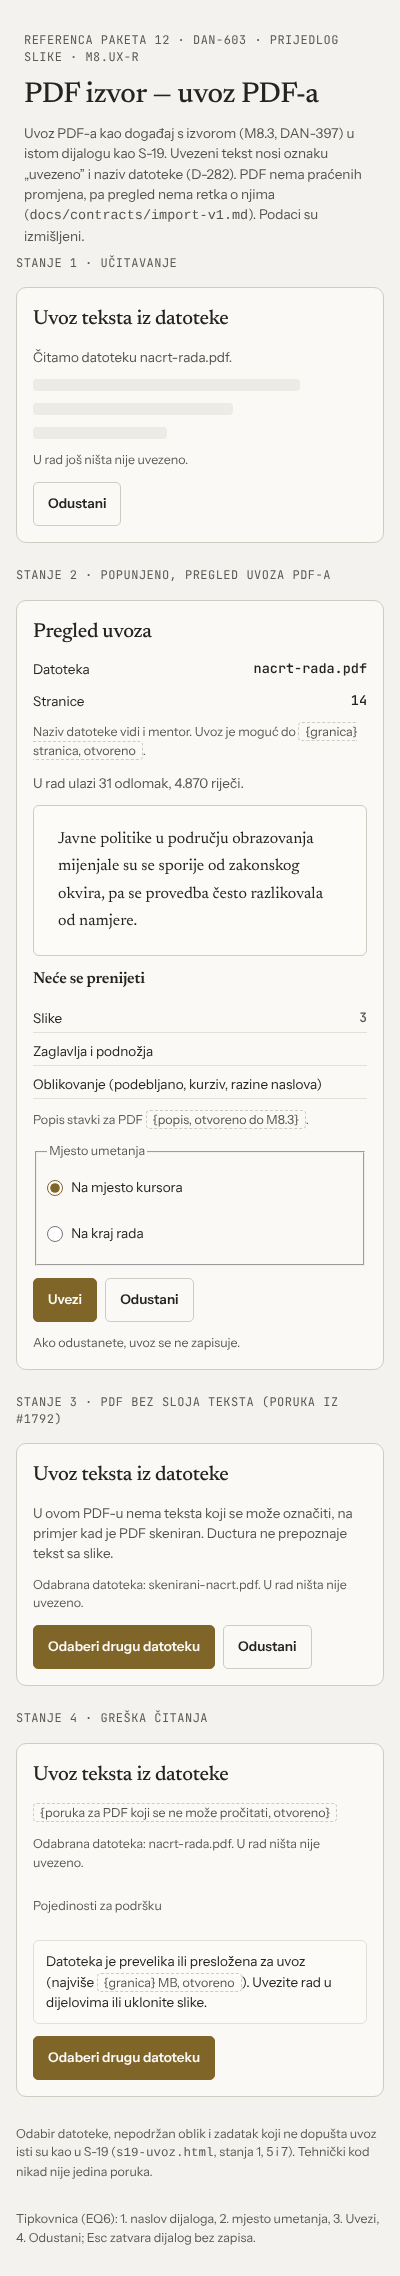
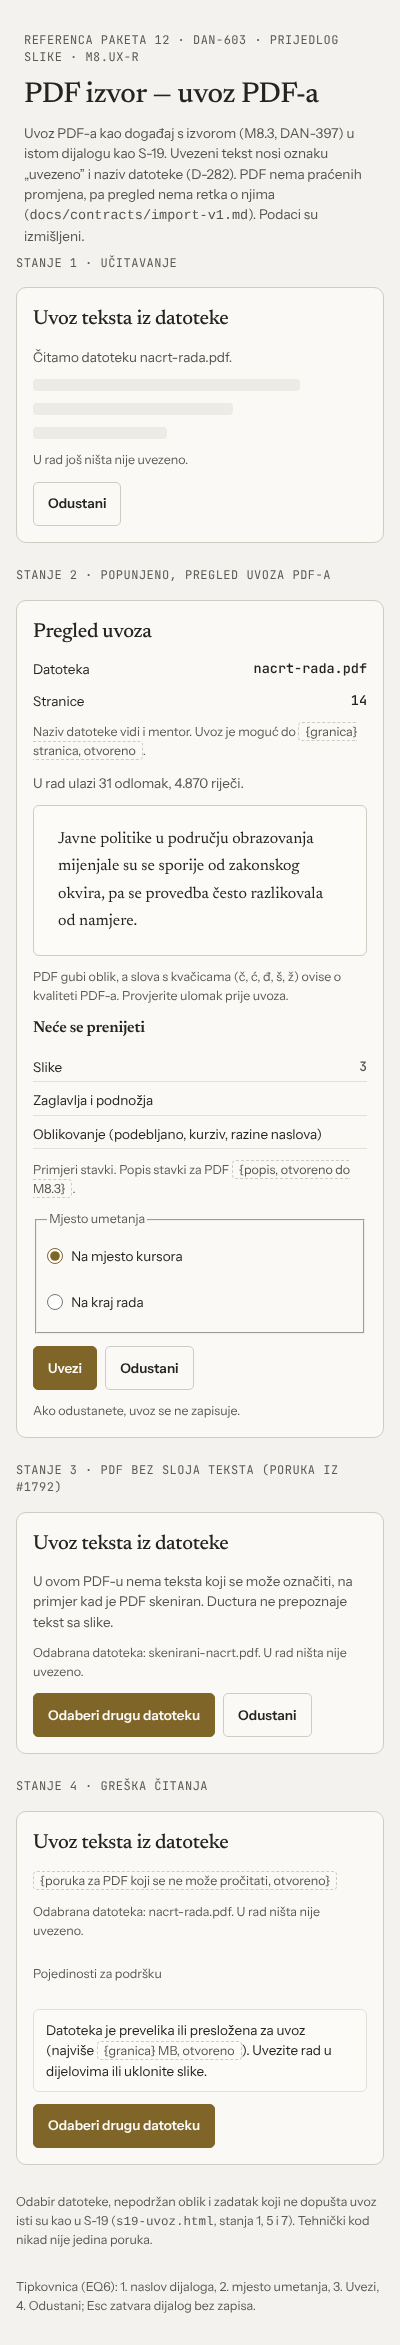
docs: limit S-19 formats to contract and add PDF diacritics note (DAN-603)
Supported import formats follow the closed fileFormat set (docx, pdf) of
evidence-segment v4. The PDF preview states that PDF loses formatting and
that diacritics depend on PDF quality (PRODUCT section 10). The "will not
transfer" items are marked as examples from the reader spike, and the
README points to import-v1 sections 3 and 4.

Claude-Session: https://claude.ai/code/session_01N1HowWxAFqsWkbdTma1fj1

Changed region(s): [[0.03, 0.1872, 0.93, 0.967], [0.06, 0.0, 0.9, 0.156], [0.66, 0.9359, 0.93, 0.967]]

diff --git a/docs/design/ductura/m8-reference/s19-uvoz.html b/docs/design/ductura/m8-reference/s19-uvoz.html
@@ -20,7 +20,7 @@
       <h2 id="t1">Uvoz teksta iz datoteke</h2>
       <p class="note">Uvezeni tekst u radu ima oznaku „uvezeno”. Zapisuju se naziv, vrsta i veličina datoteke te vrijeme uvoza na minutu. Mentor vidi iste podatke kao Vi.</p>
       <p class="note">Uvezeni tekst ostaje zabilježen kao uvoz i ako ga kasnije obrišete ili promijenite.</p>
-      <p class="meta">Podržani oblici: .docx, .pdf, .txt.</p>
+      <p class="meta">Podržani oblici: .docx, .pdf.</p>
       <div class="acts"><button class="btn" type="button">Odaberi datoteku</button><button class="btn secondary" type="button">Odustani</button></div>
     </div>
   </section>
@@ -64,6 +64,7 @@
         <li><span>Zaglavlja i podnožja</span><span></span></li>
         <li><span>Oblikovanje (podebljano, kurziv, razine naslova)</span><span></span></li>
       </ul>
+      <p class="meta">Primjeri stavki; stvarni popis daje čitanje datoteke.</p>
       <p class="note">Datoteka sadrži praćene promjene: 12 umetanja i 7 brisanja. Uvozi se tekst s prihvaćenim promjenama.</p>
       <p class="meta">Zapisuje se samo vrsta i broj tih promjena. Imena, datumi i obrisani tekst se ne zapisuju. Mentor vidi isti podatak kao Vi.</p>
       <div class="acts"><button class="btn" type="button">Uvezi</button><button class="btn secondary" type="button">Odustani</button></div>
@@ -74,7 +75,7 @@
     <div class="ref-tag">Stanje 5 · nepodržan format</div>
     <div class="dialog" role="dialog" aria-labelledby="t5">
       <h2 id="t5">Uvoz teksta iz datoteke</h2>
-      <p class="note" role="alert">Ovaj oblik datoteke nije podržan. Podržani su: .docx, .pdf, .txt.</p>
+      <p class="note" role="alert">Ovaj oblik datoteke nije podržan. Podržani su: .docx, .pdf.</p>
       <p class="meta">Odabrana datoteka: biljeske.pages</p>
       <div class="acts"><button class="btn" type="button">Odaberi drugu datoteku</button><button class="btn secondary" type="button">Odustani</button></div>
     </div>

diff --git a/docs/design/ductura/m8-reference/s19-pdf-izvor.html b/docs/design/ductura/m8-reference/s19-pdf-izvor.html
@@ -34,13 +34,14 @@
       <p class="meta">Naziv datoteke vidi i mentor. Uvoz je moguć do <span class="open-mark">{granica} stranica, otvoreno</span>.</p>
       <p class="note">U rad ulazi 31 odlomak, 4.870 riječi.</p>
       <div class="sheet"><p>Javne politike u području obrazovanja mijenjale su se sporije od zakonskog okvira, pa se provedba često razlikovala od namjere.</p></div>
+      <p class="meta">PDF gubi oblik, a slova s kvačicama (č, ć, đ, š, ž) ovise o kvaliteti PDF-a. Provjerite ulomak prije uvoza.</p>
       <h3 class="title">Neće se prenijeti</h3>
       <ul class="lost">
         <li><span>Slike</span><span>3</span></li>
         <li><span>Zaglavlja i podnožja</span><span></span></li>
         <li><span>Oblikovanje (podebljano, kurziv, razine naslova)</span><span></span></li>
       </ul>
-      <p class="meta">Popis stavki za PDF <span class="open-mark">{popis, otvoreno do M8.3}</span>.</p>
+      <p class="meta">Primjeri stavki. Popis stavki za PDF <span class="open-mark">{popis, otvoreno do M8.3}</span>.</p>
       <fieldset class="choice"><legend class="meta">Mjesto umetanja</legend>
         <label><input type="radio" name="p" checked>Na mjesto kursora</label>
         <label><input type="radio" name="p">Na kraj rada</label></fieldset>

diff --git a/docs/design/ductura/m8-reference/README.md b/docs/design/ductura/m8-reference/README.md
@@ -34,13 +34,15 @@ Izrađene su Playwrightovim Chromiumom: cijela stranica, DPR 1, nakon `document.
 
 - **Uvoz teksta (S-19).**
   - Uvoz je samo iz datoteke, a dijalog se obraća studentu s „Vi” i kaže da mentor vidi naziv datoteke (D-282). Uvodna rečenica dijaloga je iz #1794 i ponavlja `docs/PRODUCT.md`: zapisuju se naziv, vrsta i veličina datoteke te vrijeme uvoza na minutu.
-  - „Pregled uvoza” je obvezan korak prije nego što tekst uđe u rad. Popis „Neće se prenijeti” pojavljuje se samo za ono čega u datoteci ima.
+  - Podržani oblici su .docx i .pdf, zatvoren skup `fileFormat` iz `docs/contracts/evidence-segment-v4.md` (manifest uvoza). Drugi oblik traži izmjenu ugovora, pa ga slika ne nudi.
+  - „Pregled uvoza” je obvezan korak prije nego što tekst uđe u rad. Popis „Neće se prenijeti” pojavljuje se samo za ono čega u datoteci ima. Stavke u slici su primjer iz izlaza čitača u #1792, ne odluka o opsegu čitača (`docs/ARCHITECTURE.md` §5: struktura se čuva gdje je moguće); stvarni popis daje čitač M8.2 i M8.3.
   - Praćene promjene uvoze se kao prihvaćene. Student i mentor vide isti tekst: broj promjena po vrsti, bez imena, datuma i obrisanog teksta (D-281, D-198 t. 5).
   - Poruke greške su iz #1792. Tehnički kod je samo u „Pojedinosti za podršku” i nikad nije jedina poruka.
   - Uvezeni tekst ostaje zabilježen kao uvoz i ako ga student kasnije obriše ili promijeni (rečenica iz #1794).
   - Kad zadatak isključi uvoz, stavka „Uvezi tekst iz datoteke” ostaje vidljiva, ali je onemogućena i navodi razlog (D-282).
 - **PDF izvor (uvoz PDF-a, M8.3).**
   - Isti dijalog i isti obvezni „Pregled uvoza” kao S-19. Uvezeni tekst nosi oznaku „uvezeno” i naziv datoteke, a mentor vidi naziv (D-282).
+  - Pregled kaže da PDF gubi oblik i da slova s kvačicama ovise o kvaliteti PDF-a, prije nego što student potvrdi uvoz (`docs/PRODUCT.md` §10, redak Uvoz). Tekst rečenice je prijedlog.
   - Pregled pokazuje broj stranica. PDF nema praćenih promjena, pa nema ni retka o njima (`docs/contracts/import-v1.md`: uz `pdf` nema `traces`).
   - Poruka za PDF bez sloja teksta je iz #1792, preoblikovana bez priloga nesigurnosti koji rječnik zabranjenih izraza ne dopušta (`docs/PRODUCT.md` §5, redak 117; skener ga zasad ne hvata). Ductura ne prepoznaje tekst sa slike.
 - **Izvoz (S-20).**
@@ -54,13 +56,13 @@ Izrađene su Playwrightovim Chromiumom: cijela stranica, DPR 1, nakon `document.
 
 - **„PDF izvor” je M8.3 (DAN-397, uvoz PDF-a)**, kako je potvrđeno na #1836 (c.6860746528). Redak paketa 12 u `docs/design/EKRANI.md` navodi i S-09 (PDF izvori u bilježnici, M8.7, A-03). S-09 nije u ovom paketu; nacrt je sačuvan na grani `claude/w603-s09-nacrt` za zaseban paket ako ga orkestrator dodijeli.
 - Ulazi koji nisu odlučeni stoje u slici kao `{…}, otvoreno` s isprekidanim rubom. Ne izmišljam ih:
-  - granice veličine datoteke i broja stranica PDF-a (D-291);
+  - granice veličine datoteke i broja stranica PDF-a (D-291). `docs/contracts/import-v1.md` §4 bilježi 2 MiB prema B-8, a broj potvrđuje review (D-291), pa slika ne piše broj;
   - popis stavki „Neće se prenijeti” za PDF i poruka za PDF koji se ne može pročitati (#1792 ih nema; čitač PDF-a dolazi s M8.3);
   - opis oblika iz profila fakulteta (Lekta, Q-11);
   - kome se student javlja kad su podaci naslovnice netočni (#1797).
 - Traži li FPZG PDF/A, pitanje je u paketu Q-3; dodatna rečenica za taj slučaj nije nacrtana.
 - Nazivi stavki „Preuzmi” su prijedlog iz #1796, ne vlasnička odluka.
-- Kod naziva uvezene datoteke odlučena je samo vidljivost (D-292). Gdje se naziv čuva, otvoreno je do ugovora M8.0-S1, pa slika o tome ništa ne kaže.
+- Kod naziva uvezene datoteke slika pokazuje samo vidljivost (D-292). Gdje se naziv čuva određuje `docs/contracts/import-v1.md` §3 (samo `import_event.file_name`, izvan svakog hasha); to nije tekst sučelja.
 
 ## Granice
 
